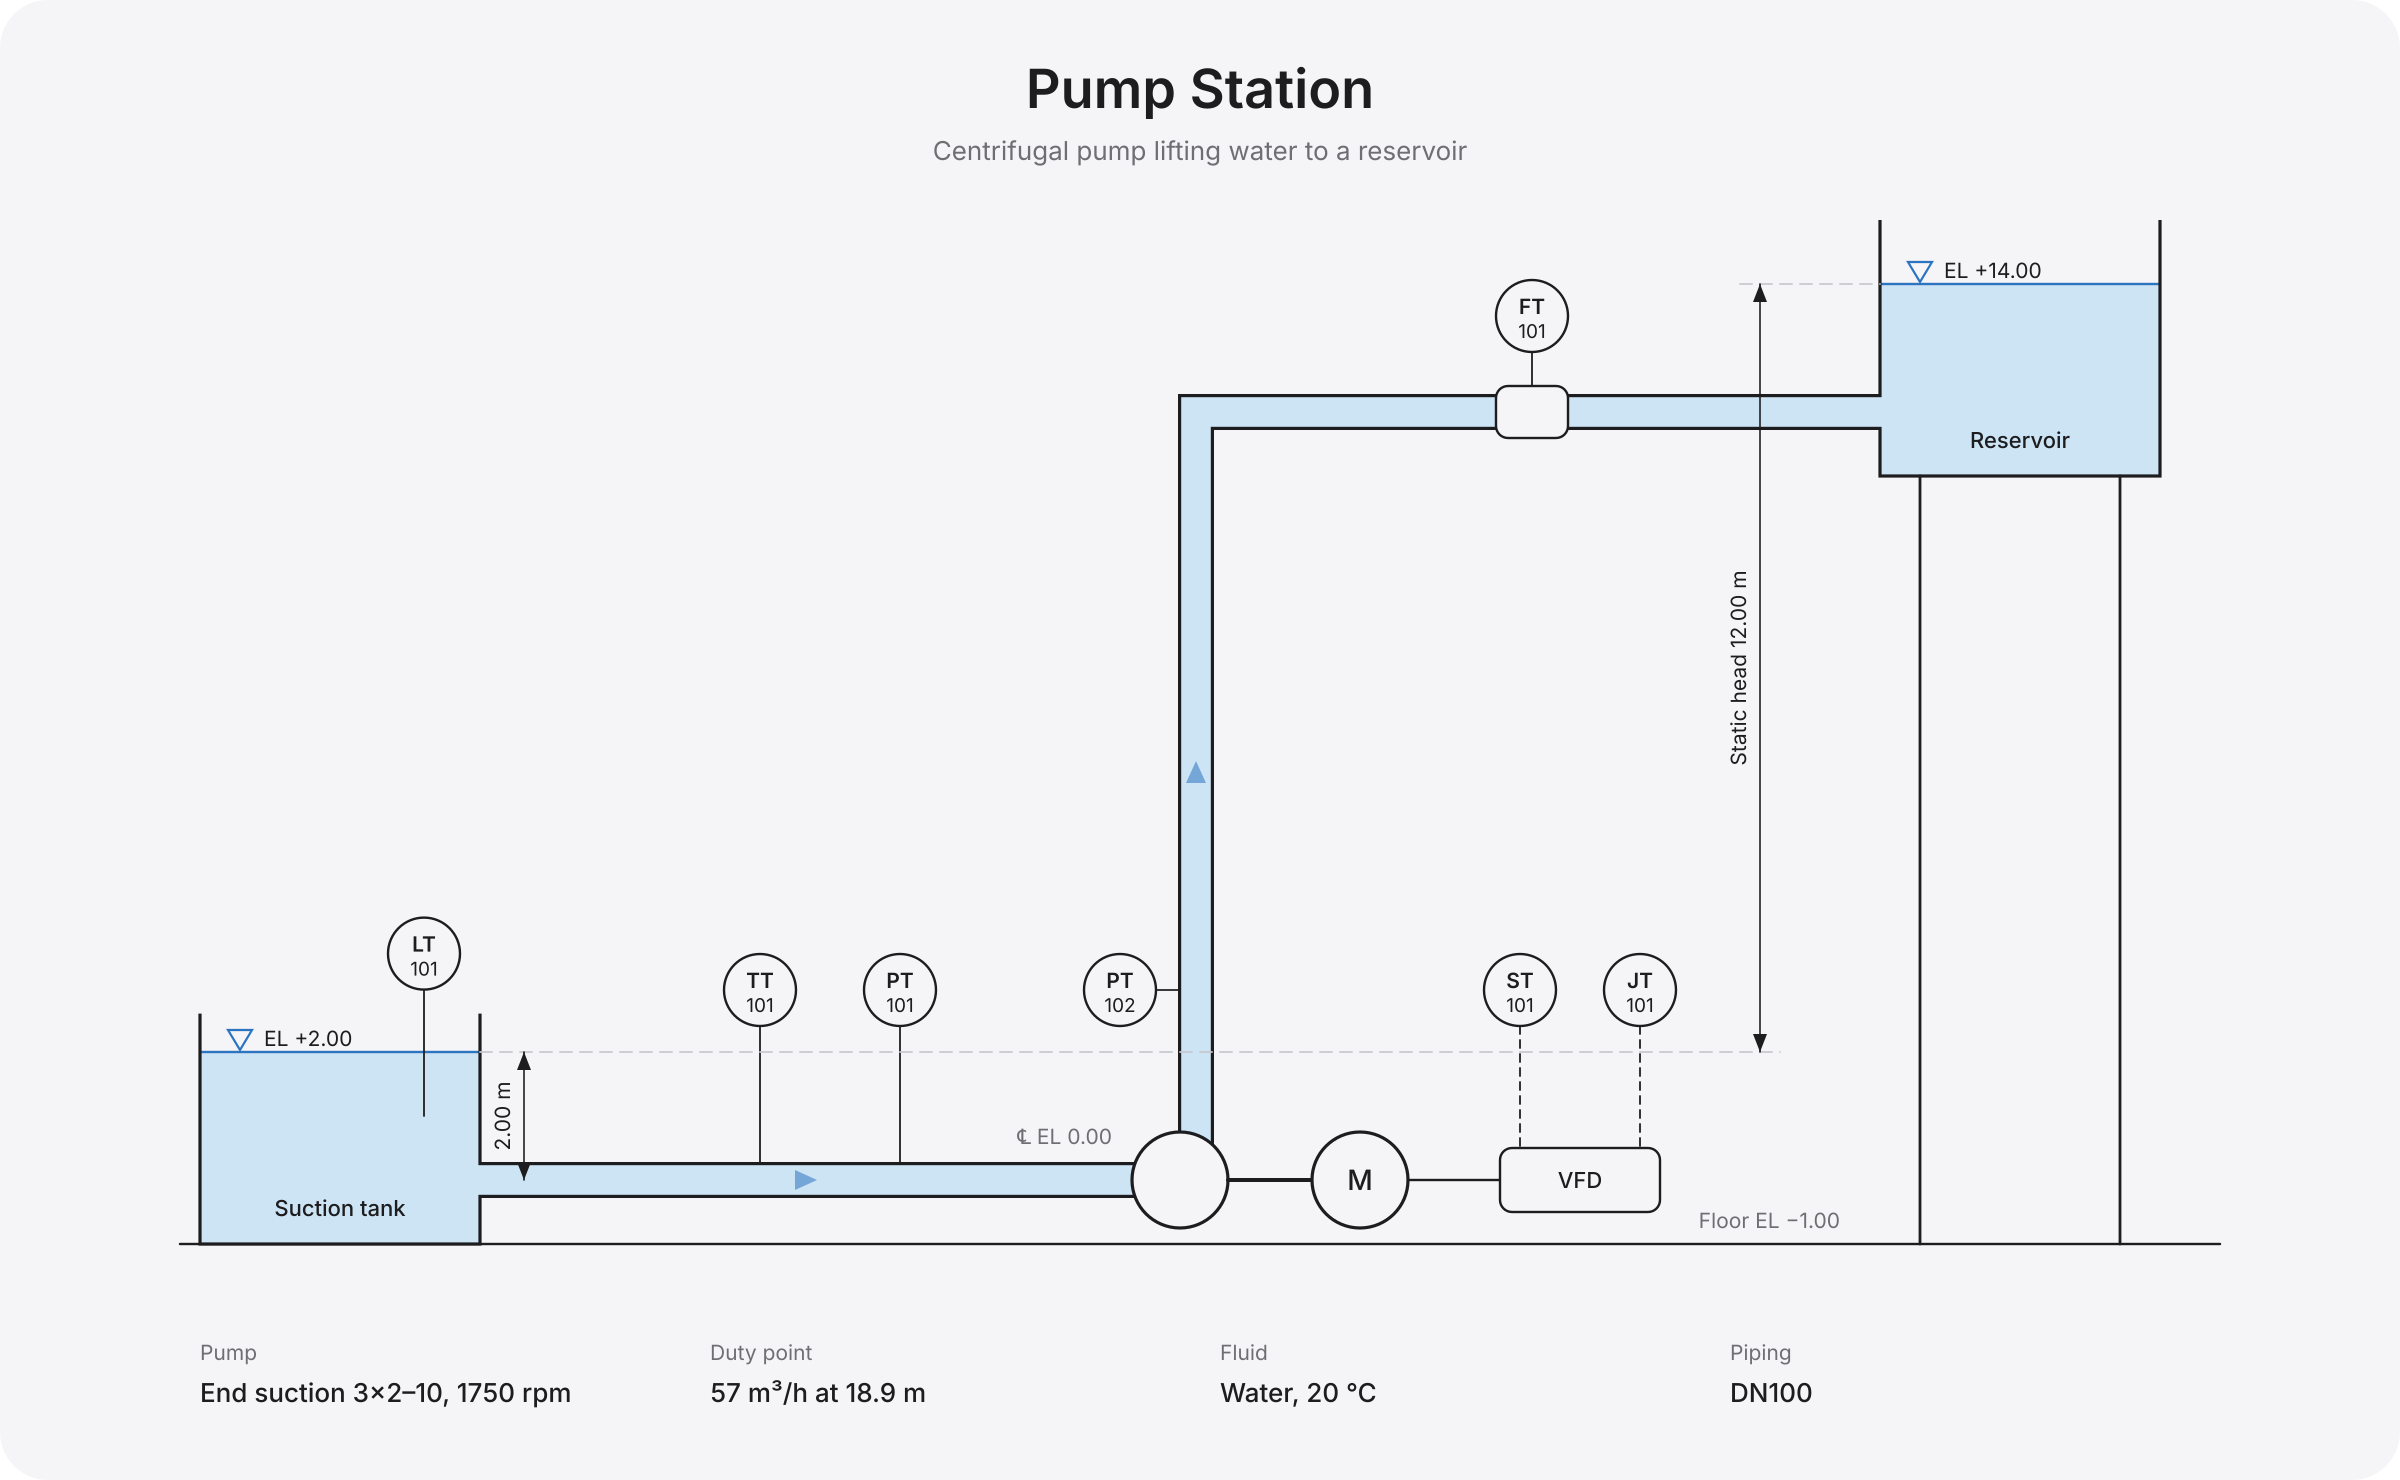
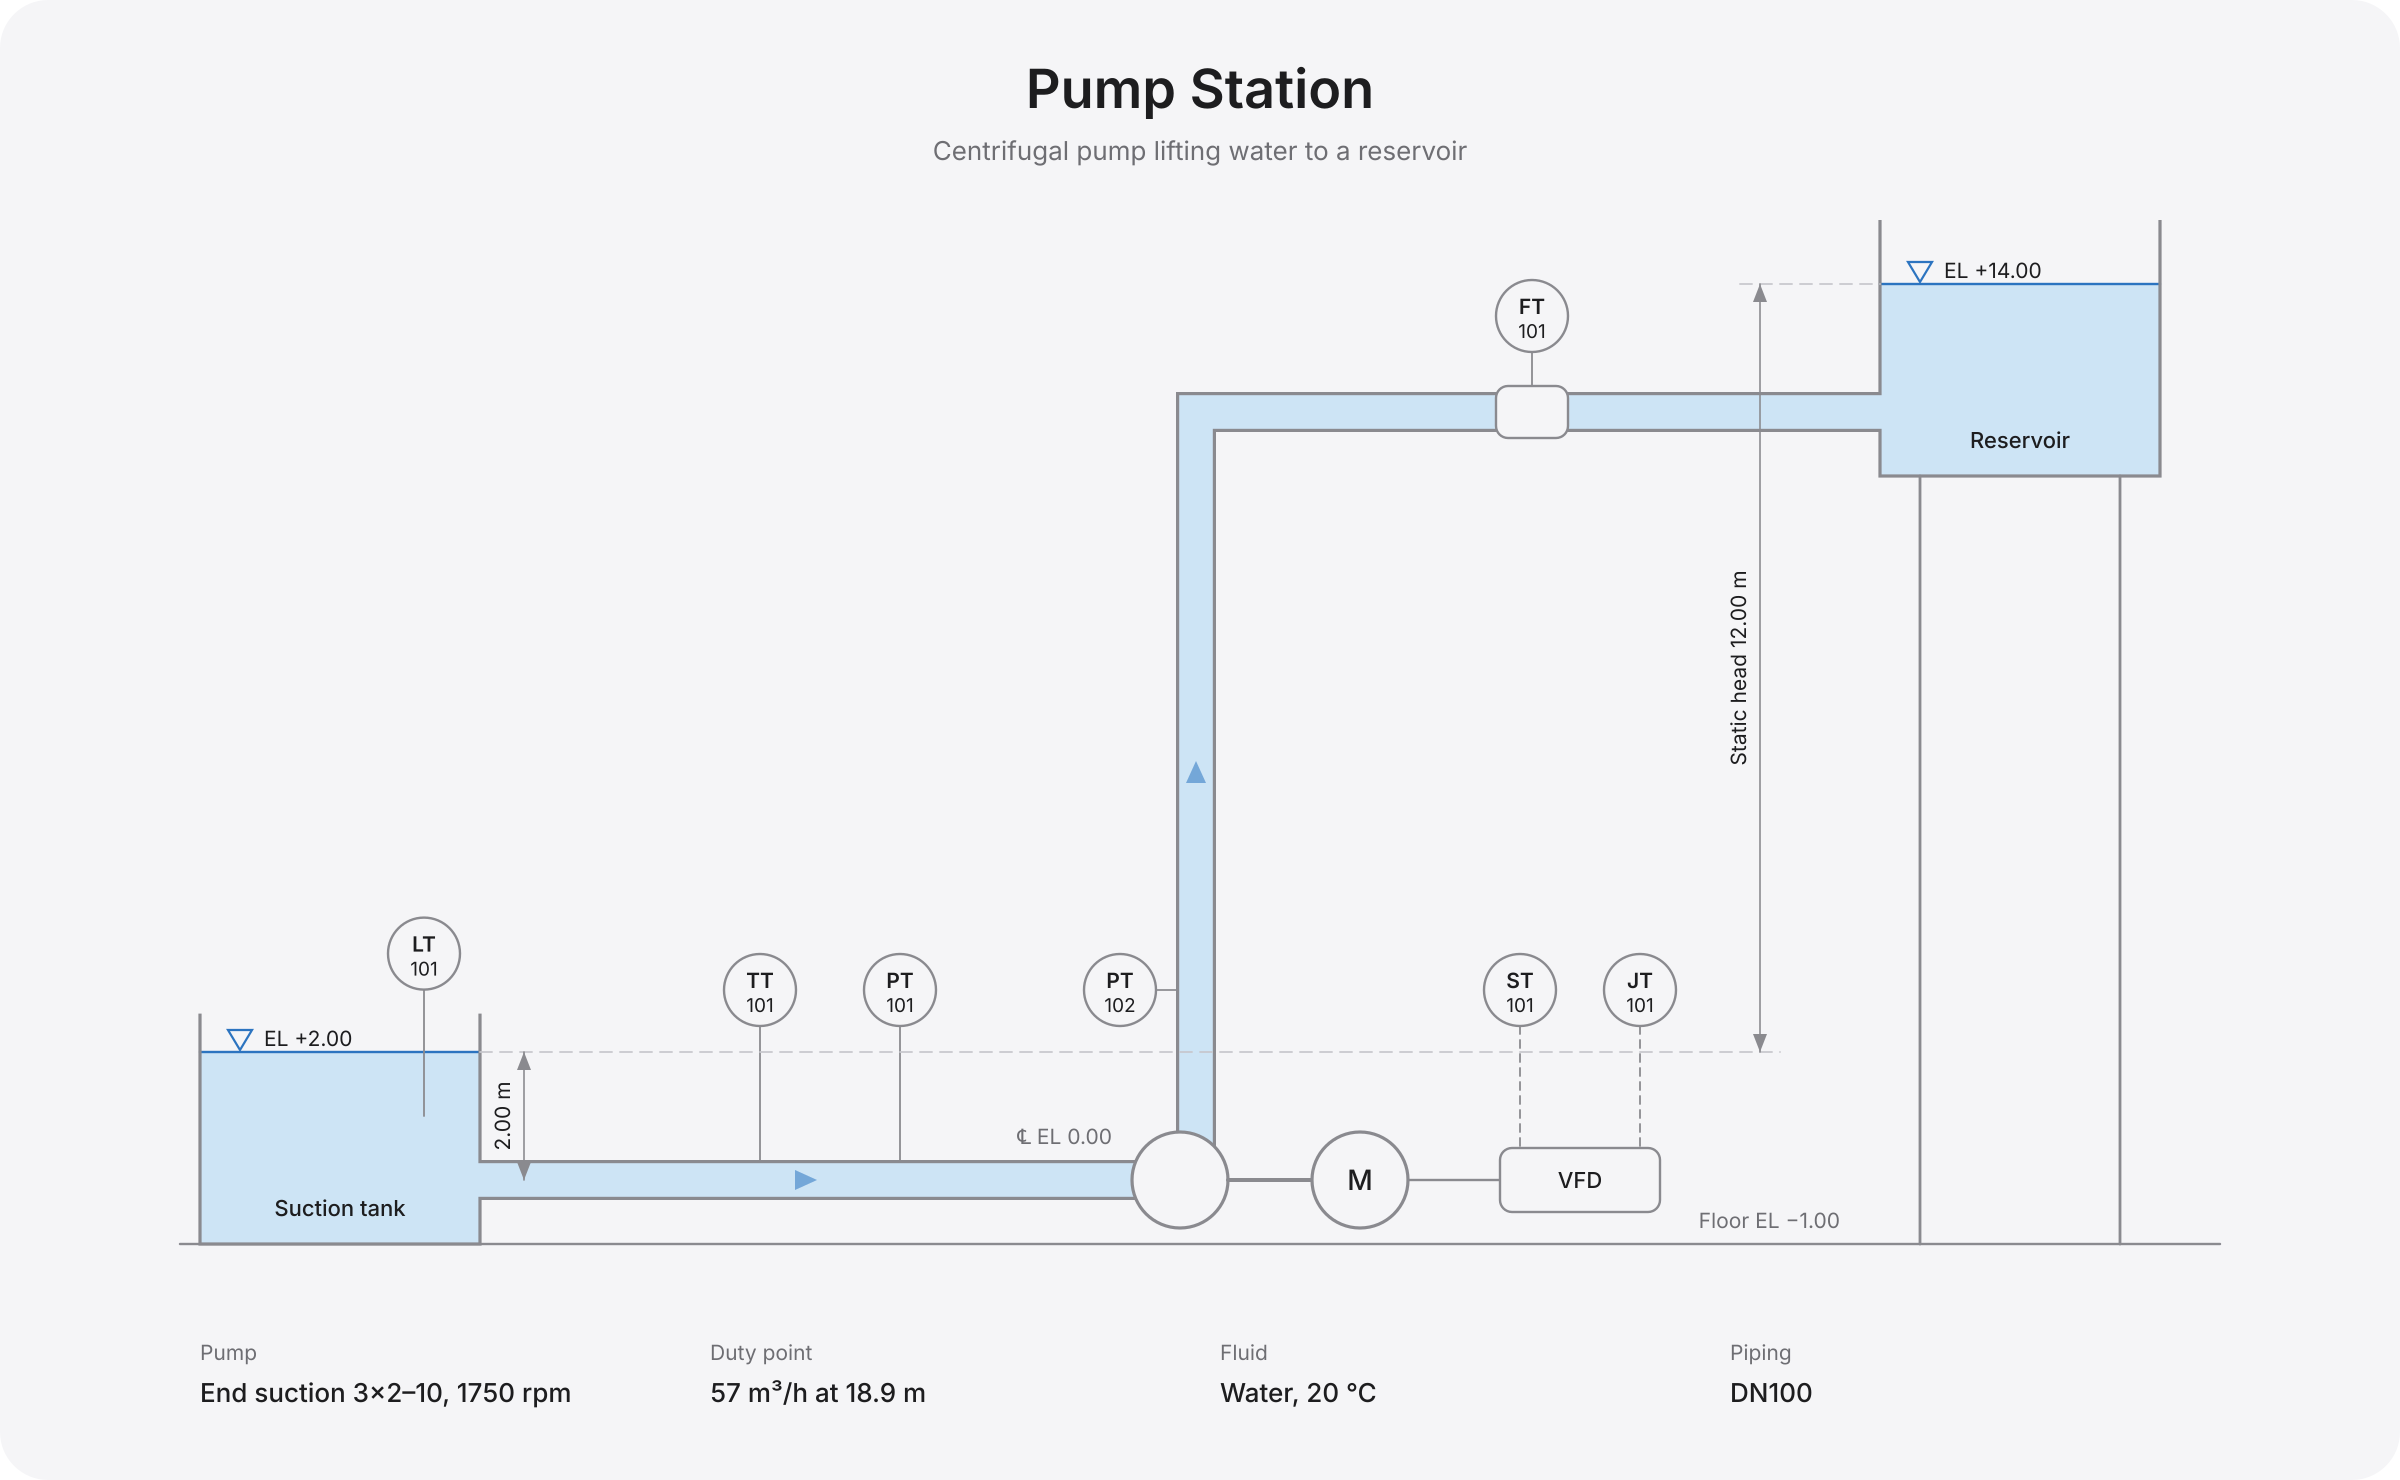
Soften station drawing lines and space figure captions

diff --git a/src/visualization/drawing.py b/src/visualization/drawing.py
@@ -7,39 +7,40 @@ W, H = 1200, 740
 import sys
 THEME = sys.argv[1] if len(sys.argv) > 1 else "light"  # run once per theme
 PALETTES = {
-    "light": dict(bg="#F5F5F7", ink="#1D1D1F", sec="#6E6E73", hair="#C7C7CC", arrow="#2C74C0", water="#CDE4F5"),
-    "dark": dict(bg="#242427", ink="#F5F5F7", sec="#A1A1A6", hair="#48484A", arrow="#6AAEF5", water="#1D3A5C"),
+    "light": dict(bg="#F5F5F7", ink="#1D1D1F", line="#8A8A8F", sec="#6E6E73", hair="#C7C7CC", arrow="#2C74C0", water="#CDE4F5"),
+    "dark": dict(bg="#242427", ink="#F5F5F7", line="#7C7C82", sec="#A1A1A6", hair="#48484A", arrow="#6AAEF5", water="#1D3A5C"),
 }
 P = PALETTES[THEME]
 BG, INK, SEC, HAIR = P["bg"], P["ink"], P["sec"], P["hair"]
+LINE = P["line"]  # every drawn line sits a step below the text, as in Apple's label hierarchy
 JADE = {"base": P["arrow"], "water": P["water"]}
-PIPE = 18  # outside diameter on the drawing, px
+PIPE = 20  # outside diameter on the drawing, px
 S = 32
 def Y(el): return 590 - S * el
 
 o = []; a = o.append
 a(f'<svg xmlns="http://www.w3.org/2000/svg" width="{W}" height="{H}" viewBox="0 0 {W} {H}" font-family="Inter, SF Pro Text, Helvetica Neue, Arial">')
 a(f'<rect width="{W}" height="{H}" rx="24" fill="{BG}"/>')
-def line(x1, y1, x2, y2, c=INK, w=1.2, dash=None):
+def line(x1, y1, x2, y2, c=LINE, w=1.2, dash=None):
     d = f' stroke-dasharray="{dash}"' if dash else ''
     a(f'<line x1="{x1}" y1="{y1}" x2="{x2}" y2="{y2}" stroke="{c}" stroke-width="{w}"{d} stroke-linecap="round"/>')
 def text(x, y, s, size=11, c=SEC, anchor="start", weight=400, rot=None):
     t = f' transform="rotate({rot} {x} {y})"' if rot else ''
     a(f'<text x="{x}" y="{y}" font-size="{size}" fill="{c}" text-anchor="{anchor}" font-weight="{weight}"{t}>{s}</text>')
 def bubble(x, y, tag, num="101"):
-    a(f'<circle cx="{x}" cy="{y}" r="18" fill="{BG}" stroke="{INK}" stroke-width="1.2"/>')
+    a(f'<circle cx="{x}" cy="{y}" r="18" fill="{BG}" stroke="{LINE}" stroke-width="1.2"/>')
     text(x, y - 1, tag, 10.5, INK, "middle", 600); text(x, y + 11, num, 9.5, INK, "middle")
 def level(x, y, label):
     a(f'<polygon points="{x-6},{y-11} {x+6},{y-11} {x},{y-1}" fill="none" stroke="{JADE["base"]}" stroke-width="1.1"/>')
     text(x + 12, y - 3, label, 10.5, INK)
 def vdim(x, y1, y2, label):
-    line(x, y1, x, y2, INK, 0.8)
-    for y, s in ((y1, 1), (y2, -1)): a(f'<polygon points="{x-3.5},{y+s*9} {x+3.5},{y+s*9} {x},{y}" fill="{INK}"/>')
+    line(x, y1, x, y2, LINE, 0.8)
+    for y, s in ((y1, 1), (y2, -1)): a(f'<polygon points="{x-3.5},{y+s*9} {x+3.5},{y+s*9} {x},{y}" fill="{LINE}"/>')
     text(x - 7, (y1 + y2) / 2, label, 10.5, INK, "middle", rot=-90)
 def tank(x1, x2, bottom, top, water, name, mark_el):
     a(f'<rect x="{x1}" y="{Y(water)}" width="{x2-x1}" height="{bottom-Y(water)}" fill="{JADE["water"]}"/>')
     line(x1, Y(water), x2, Y(water), JADE["base"], 1.2)
-    a(f'<polyline points="{x1},{top} {x1},{bottom} {x2},{bottom} {x2},{top}" fill="none" stroke="{INK}" stroke-width="1.6"/>')
+    a(f'<polyline points="{x1},{top} {x1},{bottom} {x2},{bottom} {x2},{top}" fill="none" stroke="{LINE}" stroke-width="1.6"/>')
     level(x1 + 20, Y(water), mark_el)
     text((x1 + x2) / 2, bottom - 14, name, 11, INK, "middle", 500)
 
@@ -47,20 +48,20 @@ text(W / 2, 54, "Pump Station", 27, INK, "middle", 600)
 text(W / 2, 80, "Centrifugal pump lifting water to a reservoir", 13, SEC, "middle")
 
 floor = Y(-1.0)
-line(90, floor, 1110, floor, INK, 1.2)
+line(90, floor, 1110, floor, LINE, 1.2)
 text(920, floor - 8, "Floor EL −1.00", 10.5, SEC, "end")
 
 # tanks
 tank(100, 240, floor, Y(2.6), 2.0, "Suction tank", "EL +2.00")
 rbot = Y(11)
 tank(940, 1080, rbot, Y(15), 14.0, "Reservoir", "EL +14.00")
-for x in (960, 1060): line(x, rbot, x, floor, INK, 1.4)
+for x in (960, 1060): line(x, rbot, x, floor, LINE, 1.4)
 
 # process lines: pipe walls in ink, water inside, flow arrows in the water
 yc, dx, top = Y(0), 598, Y(12)
 def pipe(points, start_trim=0, end_trim=0):
     pts = " ".join(f"{x},{y}" for x, y in points)
-    a(f'<polyline points="{pts}" fill="none" stroke="{INK}" stroke-width="{PIPE}" stroke-linejoin="miter"/>')
+    a(f'<polyline points="{pts}" fill="none" stroke="{LINE}" stroke-width="{PIPE}" stroke-linejoin="miter"/>')
     inner = list(points)
     (x0, y0), (x1, y1) = inner[0], inner[-1]
     inner[0] = (x0 - start_trim, y0); inner[-1] = (x1 + end_trim, y1)
@@ -75,25 +76,25 @@ for p in (f"{sx-5.5},{yc-5} {sx+5.5},{yc} {sx-5.5},{yc+5}", f"{dx-5},{ry+5.5} {d
     a(f'<polygon points="{p}" fill="{JADE["base"]}" fill-opacity="0.55"/>')
 
 # pump, motor, drive
-a(f'<circle cx="590" cy="{yc}" r="24" fill="{BG}" stroke="{INK}" stroke-width="1.6"/>')
+a(f'<circle cx="590" cy="{yc}" r="24" fill="{BG}" stroke="{LINE}" stroke-width="1.6"/>')
 text(556, yc - 18, "℄ EL 0.00", 10.5, SEC, "end")
-line(614, yc, 656, yc, INK, 2)
-a(f'<circle cx="680" cy="{yc}" r="24" fill="{BG}" stroke="{INK}" stroke-width="1.6"/>')
+line(614, yc, 656, yc, LINE, 2)
+a(f'<circle cx="680" cy="{yc}" r="24" fill="{BG}" stroke="{LINE}" stroke-width="1.6"/>')
 text(680, yc + 5, "M", 14, INK, "middle", 500)
-line(704, yc, 750, yc, INK, 1.2)
-a(f'<rect x="750" y="{yc-16}" width="80" height="32" rx="6" fill="{BG}" stroke="{INK}" stroke-width="1.2"/>')
+line(704, yc, 750, yc, LINE, 1.2)
+a(f'<rect x="750" y="{yc-16}" width="80" height="32" rx="6" fill="{BG}" stroke="{LINE}" stroke-width="1.2"/>')
 text(790, yc + 4, "VFD", 11, INK, "middle", 500)
 
 # sensors
 row = 495
-line(212, Y(2.6) - 12, 212, Y(1.0), INK, 0.9); bubble(212, Y(2.6) - 30, "LT")
+line(212, Y(2.6) - 12, 212, Y(1.0), LINE, 0.9); bubble(212, Y(2.6) - 30, "LT")
 for x, tag in ((380, "TT"), (450, "PT")):
-    line(x, row + 18, x, yc - PIPE / 2, INK, 0.9); bubble(x, row, tag)
-line(578, row, dx - PIPE / 2, row, INK, 0.9); bubble(560, row, "PT", "102")
+    line(x, row + 18, x, yc - PIPE / 2, LINE, 0.9); bubble(x, row, tag)
+line(578, row, dx - PIPE / 2, row, LINE, 0.9); bubble(560, row, "PT", "102")
 for x, tag in ((760, "ST"), (820, "JT")):
-    line(x, row + 18, x, yc - 16, INK, 0.9, "4 3"); bubble(x, row, tag)
-a(f'<rect x="748" y="{top-13}" width="36" height="26" rx="6" fill="{BG}" stroke="{INK}" stroke-width="1.2"/>')
-line(766, top - 13, 766, top - 30, INK, 0.9); bubble(766, top - 48, "FT")
+    line(x, row + 18, x, yc - 16, LINE, 0.9, "4 3"); bubble(x, row, tag)
+a(f'<rect x="748" y="{top-13}" width="36" height="26" rx="6" fill="{BG}" stroke="{LINE}" stroke-width="1.2"/>')
+line(766, top - 13, 766, top - 30, LINE, 0.9); bubble(766, top - 48, "FT")
 
 # heads
 line(240, Y(2.0), 890, Y(2.0), HAIR, 0.9, "6 4")

diff --git a/README.md b/README.md
@@ -9,12 +9,16 @@ Pump Performance Diagnosis watches a variable-speed centrifugal pump through the
 
 ## The Station
 
+<p>
 <picture>
   <source media="(prefers-color-scheme: dark)" srcset="docs/plant-dark.png">
   <img src="docs/plant.png" alt="Pump station elevation drawing">
 </picture>
+<br>
+<sub><b>Pump station.</b> Elevation view from the suction tank to the reservoir, drawn to scale from the pump centreline. The reservoir surface stands 12 m above the suction tank's, and the suction tank's 2 m above the pump. Instruments carry their ISA-5.1 tags, and dashed lines are signals from the drive.</sub>
+</p>
 
-An end-suction 3×2–10 pump at 1750 rpm lifts water from a suction tank to an elevated reservoir. Its best efficiency point (BEP) is 57 m³/h at 18.9 m and 68%. A variable-frequency drive sets its speed through the day. Elevations are drawn to scale from the pump centreline, and the instruments carry their ISA-5.1 tags.
+An end-suction 3×2–10 pump at 1750 rpm lifts water from a suction tank to an elevated reservoir. Its best efficiency point (BEP) is 57 m³/h at 18.9 m and 68%. A variable-frequency drive sets its speed through the day.
 
 | Tag | Measures | Used for |
 | :-- | :-- | :-- |
@@ -79,11 +83,14 @@ with $p_v(T)$ from the Antoine equation.
 
 **Measured head.** Both pressure taps are on DN100 pipe at the pump centreline, so the velocity heads cancel and $H_m = (p_d - p_s)/\rho g$.
 
+<p>
 <picture>
   <source media="(prefers-color-scheme: dark)" srcset="reports/figures/curves-dark.png">
   <img src="reports/figures/curves.png" alt="Pump and system curves at four speeds">
 </picture>
+<br>
 <sub><b>Pump and system curves.</b> Pump curves at 1400, 1500, 1600 and 1750 rpm against the system curve. At 1750 rpm they cross at the BEP, 57 m³/h and 18.9 m. As the drive slows, the duty point slides down the system curve towards the 12 m static head, where efficiency falls from 68% to 55% at 1400 rpm.</sub>
+</p>
 
 ## The Faults
 
@@ -95,11 +102,14 @@ Each fault is a change to one parameter of these equations, never a new equation
 | Discharge blockage | Fouled pipe or a valve left partly shut | $K_d$ | Doubles |
 | Suction clogging | Debris fills the suction strainer | $K_s$ | ×18 |
 
+<p>
 <picture>
   <source media="(prefers-color-scheme: dark)" srcset="reports/figures/faults-dark.png">
   <img src="reports/figures/faults.png" alt="How each fault moves the pump at full speed">
 </picture>
+<br>
 <sub><b>Fault signatures.</b> How each fault at severity 1 moves the pump at 1750 rpm. Wear lowers the pump curve and the duty point slides down the unchanged system curve. Blockage steepens the system curve and the duty point climbs the unchanged pump curve, so head rises while flow falls. Clogging leaves both curves almost in place but collapses the suction head available, from 11.6 m to 7.3 m at the duty point. All three cut flow, so flow alone cannot tell them apart.</sub>
+</p>
 
 ## Where It Fits
 
@@ -129,17 +139,23 @@ The station is simulated minute by minute. Speed follows demand, 1600 to 1750 rp
 
 Only the right rule fired in each run.
 
+<p>
 <picture>
   <source media="(prefers-color-scheme: dark)" srcset="reports/figures/advisories-dark.png">
   <img src="reports/figures/advisories.png" alt="When each advisory is raised">
 </picture>
+<br>
 <sub><b>Advisories.</b> The health parameter behind each rule through its fault run, the rule's threshold (dashed) and the period with the advisory raised (shaded). Each advisory comes within hours of the parameter crossing its threshold, 31, 14 and 13 days before the fault reaches maintenance severity.</sub>
+</p>
 
+<p>
 <picture>
   <source media="(prefers-color-scheme: dark)" srcset="reports/figures/health-dark.png">
   <img src="reports/figures/health.png" alt="Health estimates against the true value">
 </picture>
+<br>
 <sub><b>Health against the truth.</b> Each fault's health parameter estimated with datasheet physics alone and with the learned unit, against its true value (dashed). With the datasheet alone, the healthy pump already reads 1.7% worn, so the wear advisory comes when the impeller has lost half the head the threshold intends. The learned unit reads 1.000 on the healthy pump, follows head retained to within 0.2%, and the two frictions to within a few percent.</sub>
+</p>
 
 The learned unit matters for when advice arrives, more than for whether it arrives. Pump acceptance standards allow a new pump a few percent of head deviation from its curve. A diagnosis that trusts the datasheet would call such a pump worn on its first day, or need thresholds so loose that real wear goes unseen.
 
@@ -147,11 +163,14 @@ The learned unit matters for when advice arrives, more than for whether it arriv
 
 **Residuals before health.** Comparing each reading with its healthy expectation at the measured flow and speed makes normal operation cancel out. Each fault then moves one residual and leaves the others flat, so the three causes separate without a classifier.
 
+<p>
 <picture>
   <source media="(prefers-color-scheme: dark)" srcset="reports/figures/residuals-dark.png">
   <img src="reports/figures/residuals.png" alt="Four residuals through the three fault runs">
 </picture>
+<br>
 <sub><b>Residuals.</b> Hourly means of the four residuals through the three fault runs, against the healthy ±3σ band. Wear lowers head and raises power, blockage raises discharge pressure and clogging lowers suction pressure. The pipe residuals ripple daily, because a pipe loss grows with flow squared and flow follows demand.</sub>
+</p>
 
 **From residuals to health.** A residual is not yet a health number: the same blockage gives a large discharge residual at full daytime flow and a small one at night. Each residual is linear in its fault's parameter, for example $r_d = \Delta K_d\,Q^2$, so the parameter is the least-squares fit over a window,
 
